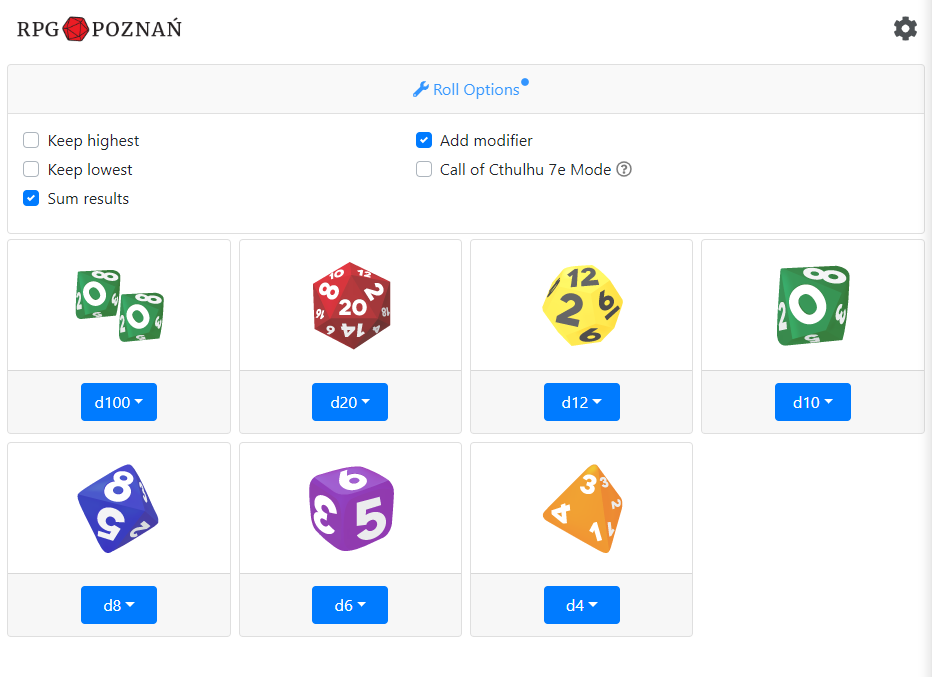
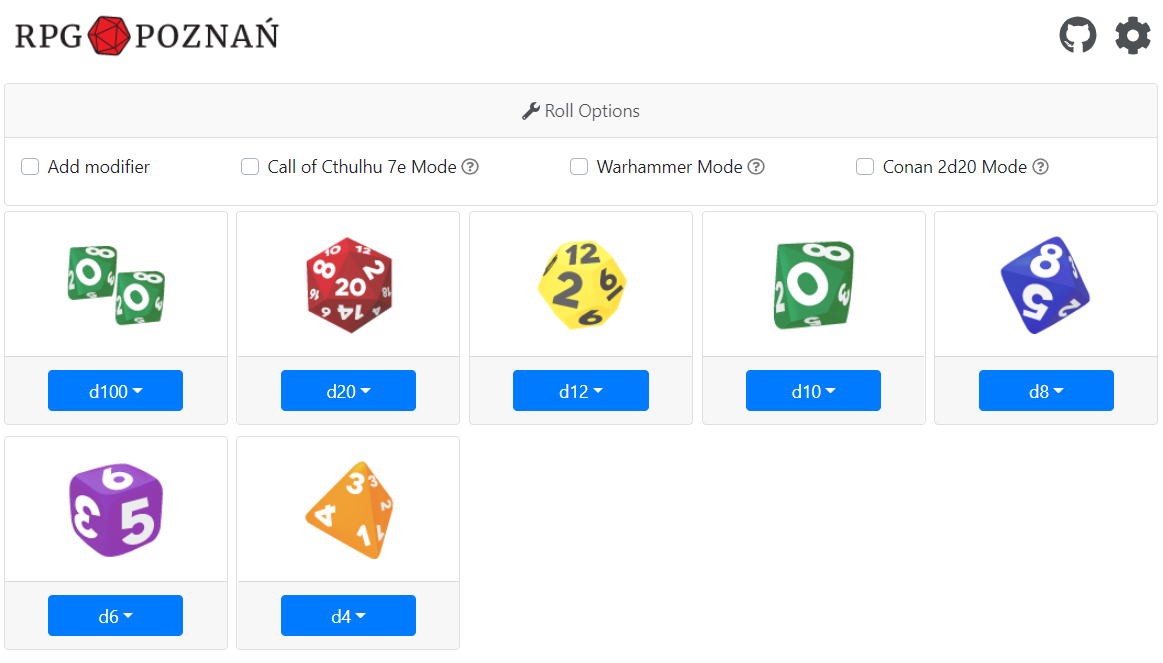
General fixes

diff --git a/src/components/ConanModal/ConanModalForm.tsx b/src/components/ConanModal/ConanModalForm.tsx
@@ -40,7 +40,7 @@ function TnTooltip() {
 					{ tnInfo }
 				</Tooltip>
 			}
-		><FontAwesomeIcon className="conan-field-icon" icon={faQuestionCircle} />
+		><FontAwesomeIcon className="conan-field-icon icon-info" icon={faQuestionCircle} />
 		</OverlayTrigger>
 		</>
 	);
@@ -59,7 +59,7 @@ function FocusTooltip() {
 					{ focusInfo }
 				</Tooltip>
 			}
-		><FontAwesomeIcon className="conan-field-icon" icon={faQuestionCircle} />
+		><FontAwesomeIcon className="conan-field-icon icon-info" icon={faQuestionCircle} />
 		</OverlayTrigger>
 		</>
 	);
@@ -78,7 +78,7 @@ function UntrainedTestTooltip() {
 					{ untrainedTestInfo }
 				</Tooltip>
 			}
-		><FontAwesomeIcon className="conan-field-icon" icon={faQuestionCircle} />
+		><FontAwesomeIcon className="conan-field-icon icon-info" icon={faQuestionCircle} />
 		</OverlayTrigger>
 		</>
 	);
@@ -97,7 +97,7 @@ function FortuneTooltip() {
 					{ fortuneInfo }
 				</Tooltip>
 			}
-		><FontAwesomeIcon className="conan-field-icon" icon={faQuestionCircle} />
+		><FontAwesomeIcon className="conan-field-icon icon-info" icon={faQuestionCircle} />
 		</OverlayTrigger>
 		</>
 	);
@@ -116,7 +116,7 @@ function AssistanceTooltip() {
 					{ assistanceInfo }
 				</Tooltip>
 			}
-		><FontAwesomeIcon className="conan-field-icon" icon={faQuestionCircle} />
+		><FontAwesomeIcon className="conan-field-icon icon-info" icon={faQuestionCircle} />
 		</OverlayTrigger>
 		</>
 	);
@@ -435,31 +435,35 @@ function ConanModalForm({
 
 type errorsProps = {
 	tn?: string
+	focus?: string
 }
 
 const validate = (values:any) => {
 	const errors:errorsProps = {}
-	const { tn } = values;
+	const { tn, focus } = values;
 	const tnNumber = parseInt(tn, 10);
+	const focusNumber = parseInt(focus, 10);
 
 	if (!tn || !tn.trim()) {
 		errors.tn = 'Target Number cannot be empty';
-		return errors;
 	}
 	if (tnNumber < 0) {
 		errors.tn = 'Target Number must be equal or greater than 0';
-		return errors;
 	}
 	if (tnNumber > 20) {
 		errors.tn = 'Target Number must be less than 20';
-		return errors;
 	}
 	if (isNaN(tnNumber)) {
 		errors.tn = 'Target Number must be a valid number';
-		return errors;
+	}
+	if (focus && isNaN(focusNumber)) {
+		errors.focus = 'Focus must be a valid number';
+	}
+	if (focus && focusNumber > 5) {
+		errors.focus = 'Focus must be less than 5';
 	}
 	return errors;
-}
+};
 
 const form = 'ConanModalForm';
 

diff --git a/src/components/DiceModule/Dice.tsx b/src/components/DiceModule/Dice.tsx
@@ -10,15 +10,14 @@ import {
 	D20_CONAN_TEST,
 	D20_CONAN_HL,
 	COMBAT_DIE,
-	HIT_LOCATION,
-	SKILL_TEST
+	HIT_LOCATION
 } from '../../consts/conanConstants';
-import { D100_SL, SL } from '../../consts/warhammerConstants';
-import { D100, D20, D5 } from '../../consts/diceConstants';
+import { D100_SL } from '../../consts/warhammerConstants';
+import { D100, D20, D5, SKILL_TEST } from '../../consts/diceConstants';
 
-function getButtonLabel(diceType:string) {
+function getButtonLabel(diceType:string, cocMode?:boolean) {
 	if (diceType === D100_SL) {
-		return D100 + SL;
+		return SKILL_TEST;
 	}
 	if (diceType === D6_CONAN) {
 		return COMBAT_DIE;
@@ -32,6 +31,9 @@ function getButtonLabel(diceType:string) {
 	if (diceType === D20_CONAN_TEST) {
 		return SKILL_TEST;
 	}
+	if (diceType === D100 && cocMode) {
+		return SKILL_TEST;
+	}
 	return diceType;
 }
 
@@ -42,7 +44,7 @@ function Dice({
 } : DiceProps
 ) {
 	const DropdownContent = () => {
-		const maxDiceInOneRoll = diceType === D6_CONAN ? 12: 8;
+		const maxDiceInOneRoll = diceType === D6_CONAN ? 15: 10;
 		const options =  new Array(maxDiceInOneRoll).fill('').map((_, index) => {
 			const dieWord = index === 0 ? 'die' : 'dice';
 			return (
@@ -72,7 +74,7 @@ function Dice({
 		return false;
 	}
 
-	const buttonLabel = getButtonLabel(diceType);
+	const buttonLabel = getButtonLabel(diceType, rollOptions.cocMode);
 
 	let extraMark = null; 
 	if (diceType === D100_SL) {

diff --git a/src/components/DiceModule/Dice.css b/src/components/DiceModule/Dice.css
@@ -16,11 +16,11 @@
 
 .dice .card-footer {
 	border-top: 0;
-	width: 145px;
+	width: 165px;
 }
 
-.dice .btn.dropdown-toggle {
-	min-width: 76px;
+.dice .btn {
+	min-width: 123px;
 }
 
 .dice__extra-mark {
@@ -38,7 +38,7 @@
 
 .dice__image {
 	width: 100%;
-	height: var(--dice-size-mobile);
+	height: 100%;
 	background-size: var(--dice-size-mobile);
 	background-position: center center;
 	background-repeat: no-repeat;
@@ -67,8 +67,8 @@
 .dice--d6 .dice__image {  background-image: url('../../img/d6.png') }
 .dice--d4 .dice__image {  background-image: url('../../img/d4.png') }
 
-.dice--d20conan .dice__image,
-.dice--d20conan-test .dice__image { background-image: url('../../img/d20conan.png') }
+.dice--d20conan .dice__image { background-image: url('../../img/d20conan.png') }
+.dice--d20conan-test .dice__image { background-image: url('../../img/d20conan-test.png') }
 .dice--d20conan-hl .dice__image { background-image: url('../../img/d20conan-hl.png') }
 .dice--d6conan .dice__image {  background-image: url('../../img/d6conan.png') }
 

diff --git a/src/components/DiceModule/DiceModule.css b/src/components/DiceModule/DiceModule.css
@@ -22,11 +22,6 @@
 	padding: 10px;
 }
 
-.dice-options .icon-info {
-	display: none;
-	color: #7c7c7c;
-}
-
 .dice-form {
 	margin-bottom: 8px;
 	width: 100%;
@@ -51,9 +46,7 @@
 	.dice-options .card-body {
 		padding: 15px;
 	}
-	.dice-options .icon-info {
-		display: inline-block;
-	}
+
 	.dice-form {
 		display: grid;
 		grid-auto-flow: column;
@@ -70,16 +63,12 @@
 	}
 }
 
-
 @media only screen and (min-width: 960px) {
 	.dice-module {
 		max-width: 1080px;
 	}
 	.dice-options .card-body {
 		padding: 15px;
-	}
-	.dice-options .icon-info {
-		display: inline-block;
 	}
 	.dice-form {
 		display: grid;
@@ -96,4 +85,3 @@
 		margin-bottom: 15px;
 	}
 }
-

diff --git a/src/utils/getConanLocalMsg.tsx b/src/utils/getConanLocalMsg.tsx
@@ -93,7 +93,10 @@ const getConanLocalMsg = (result:any, rollOptions:any, userSettings?:any):LocalM
 							<span>{ text }</span>
 						</Tooltip>
 					}
-				><FontAwesomeIcon className={styles.assistanceIcon} icon={faQuestionCircle} />
+				><FontAwesomeIcon className={classNames({
+					[styles.assistanceIcon]: true,
+					'icon-info': true
+				})} icon={faQuestionCircle} />
 				</OverlayTrigger>
 				</>
 			);

diff --git a/src/components/ConanModal/ConanModalForm.css b/src/components/ConanModal/ConanModalForm.css
@@ -11,7 +11,6 @@
 }
 
 .conan-field-icon {
-	display: none;
 	font-size: 1rem;
 	color: #7c7c7c;
 	cursor: pointer;
@@ -170,15 +169,4 @@
 
 .die-fortune-point.show {
 	display: inline-block;
-}
-
-@media only screen and (min-width: 480px) {
-	.conan-field-icon {
-		display: inline-block;
-	}
-
-	.conan-radio-fields {
-	
-	}
-	
 }

diff --git a/src/index.css b/src/index.css
@@ -56,3 +56,16 @@ button.disabled {
 .modal-footer {
 	padding: .65rem .75rem;
 }
+
+
+.icon-info {
+	display: none;
+	font-size: 16px;
+	color: #7c7c7c;
+}
+
+@media only screen and (min-width: 480px) {
+	.icon-info {
+		display: inline-block;
+	}
+}

diff --git a/src/consts/conanConstants.ts b/src/consts/conanConstants.ts
@@ -5,4 +5,3 @@ export const D20_CONAN = 'd20conan';
 export const D20_CONAN_HL = 'd20conan-hl';
 export const COMBAT_DIE = 'Combat Die';
 export const HIT_LOCATION  = 'Hit Location';
-export const SKILL_TEST  = 'Skill Test';

diff --git a/src/consts/diceConstants.ts b/src/consts/diceConstants.ts
@@ -7,3 +7,4 @@ export const D8 = 'd8';
 export const D6 = 'd6';
 export const D5 = 'd5';
 export const D4 = 'd4';
+export const SKILL_TEST = 'Skill Test';

diff --git a/README.md b/README.md
@@ -4,38 +4,30 @@
 
 # Discord Dice UI
 
-> They are plenty of Discord bots that allow you to roll dice in the chat. They may by great, but I never felt like typing while playing an RPG game. So I created this connector in which you can just select and click a die you want to roll on Discord's chat.
+> 🎲 The app is intended to use as a graphical interface dice roller for Discord. You can connect it with your Discord chat and use to roll some dice without typing!
 
-The app is intended to use as a graphical interface dice roller for Discord. You can connect it with your Discord chat and use to roll some dice! 🎲🎲
->
- You can modify how the result is displayed by selecting different _Roll Options_:
-- Keep highest
-- Keep lowest
-- Sum results
-- Add modifier
-- Call of Cthulhu 7e Mode (read below)
-- Warhammer Mode (read below)
+The app offers special support for following games:
+- Call of Cthulhu 7e
+- Warhammer (Dark Heresy II, WFRP 2e/4e)
+- Conan 2d20
 
-#### App Interface
-[![App overview](./public/app.png)]()
+[![App interface](./public/app.png)]()
 
-#### Sample results inside Discord's Chat
+### Sample results inside Discord's Chat
 [![Sample Chat Results](./public/chat-sample-results.png)]()
 
-#### Sample results inside the App
+### Sample results inside the App
 [![Sample App Results](./public/app-sample-results-1.png)]()
-[![Sample App Results](./public/app-sample-results-2.png)]()
 
+## Call of Cthulhu 7e Mode
 
-### Call of Cthulhu 7e Mode
-
-The app offers special support for Call of Cthulhu 7e RPG game. After selecting the mode in the _Roll Options_ a dedicated modal will be shown for rolling d100.
+After selecting the mode in the _Roll Options_ a dedicated modal will be shown for rolling d100 skill tests - with option to Push the roll and guidelines for optional spending luck.
 
 [![Call of Cthulhu 7e Mode 1](./public/coc-mode-1.png)]()
 
 [![Call of Cthulhu 7e Mode 2](./public/coc-mode-2.png)]()
 
-### Warhammer Mode
+## Warhammer Mode
 
 The app offers special support for rolling Success Levels in Warhammer 2e, Warhammer 4e and Dark Heresy II.
 
@@ -44,6 +36,24 @@ The app offers special support for rolling Success Levels in Warhammer 2e, Warha
 [![WFRP Mode - app](./public/wfrp-result-app.png)]()
 
 [![WFRP Mode - discord](./public/wfrp-result-discord.png)]()
+
+## Conan 2d20 Mode
+
+This mode adds special modal for testing abilities, generating Hit Location and rolling Combat Dice:
+
+[![Conan 2d20 Mode general interface](./public/conan-mode-1.png)]()
+
+In the modal one can define Focus, Target Number, Difficulty, select amount of dice rolled, focus and so on:
+
+[![Conan 2d20 Mode modal](./public/conan-mode-2.png)]()
+
+Damage Dice Result (with option to reroll selected dice):
+
+[![Conan 2d20 Mode Combat Dice roll results](./public/conan-mode-3.png)]()
+
+And the results in Discord Chat:
+
+[![Conan 2d20 Mode Discord Chat](./public/conan-mode-4.png)]()
 
 
 ## Setup
@@ -61,9 +71,7 @@ In order to get started, **Discord's server admin has to create a Webhook** and 
 
 4. Name your Webhook and provide an icon (optionally). **Copy a link** to obtain your unique Webhook url and press **Save** button to close the modal.
 ![how-to-4](./public/how-to-3.png)
-🛑🚧🚧🚧🛑  
-**Never share your Webhook link publicly and keep it a secret. You don't want to allow strangers to publish messages in your chat.**  
-🛑🚧🚧🚧🛑  
+🛑 **Never share your Webhook link publicly and keep it a secret. You don't want to allow strangers to publish messages in your chat.**   
 
 5. Now you can share the Webhook url with other players in two ways:
     1. **Via link param**.  
@@ -72,12 +80,12 @@ In order to get started, **Discord's server admin has to create a Webhook** and 
     https://discord-dice-ui.herokuapp.com/?q=UNIQUE_CODE_FROM_YOUR_DICORD_WEBHOOK
     ```
 
+    > 💡 **HINT**: You can generate the link using _Copy App Link_ button in the Setting Modal:
+    >
+    > ![how-to-5](./public/how-to-5.png)
+
     2. **Manually**.  
     Alternatively, every user has to enter the provided Webhook link url in the Settings modal inside the app. Entering the username is required as well.
     ![how-to-5](./public/how-to-4.png)
 
 6. Saving the Webhook in the app will connect the app with the Discord server.
-
-## Demo preview:
-
-![Demo](./public/app-demo.gif)
